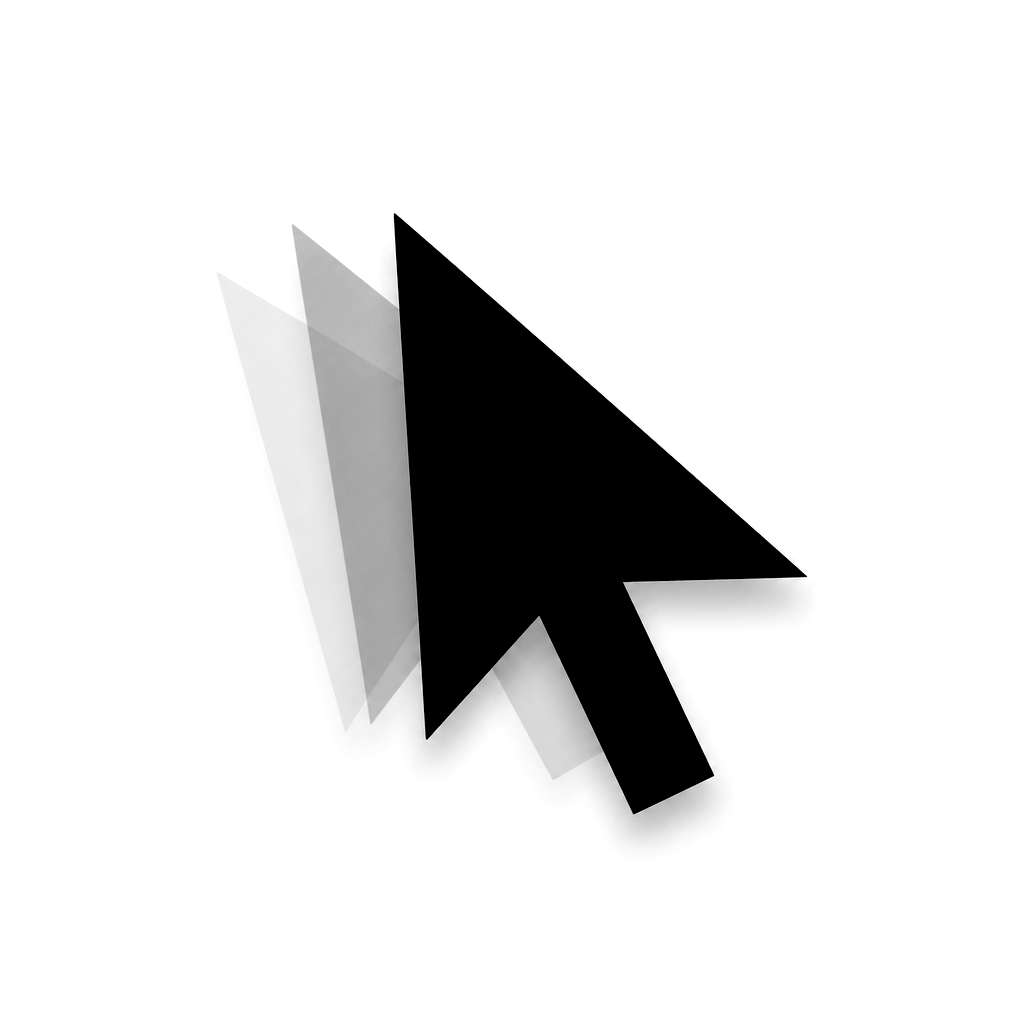
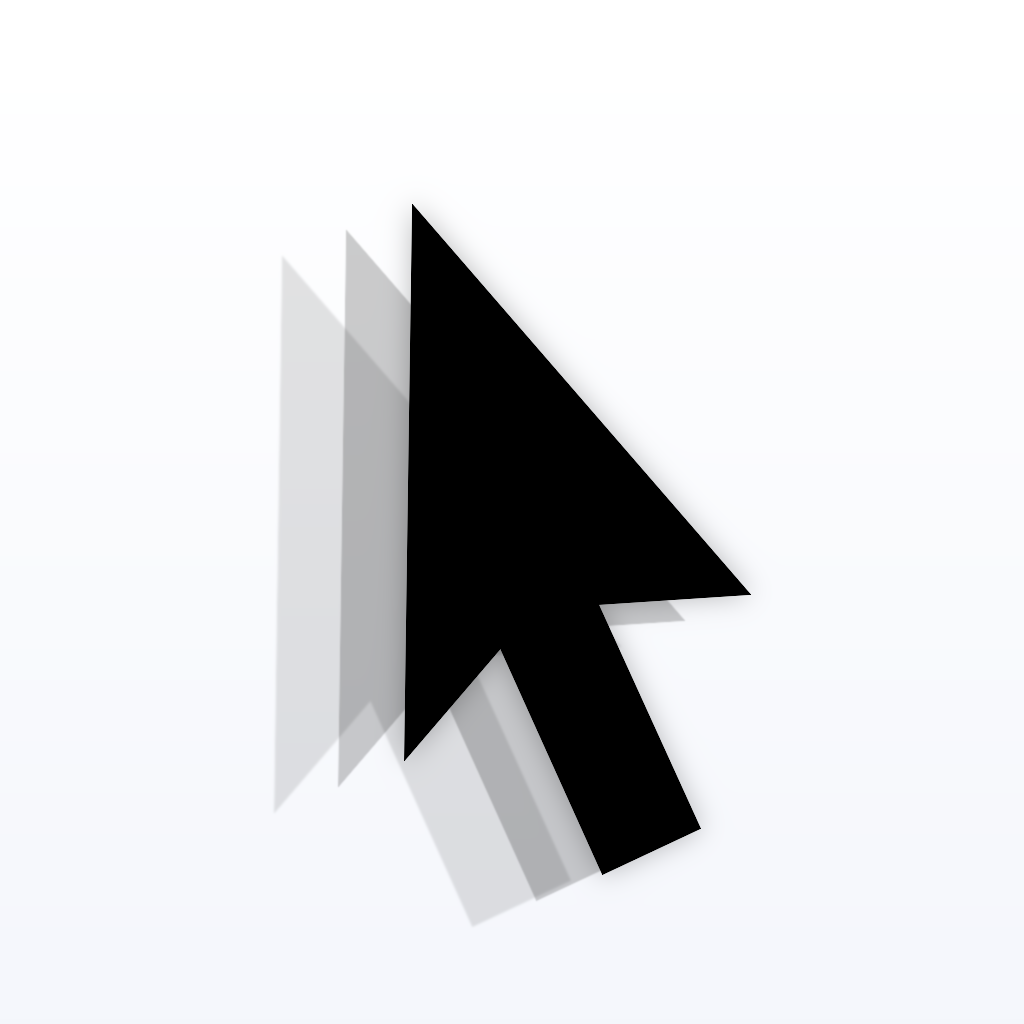
Fix menu slider and permission identity

diff --git a/Sources/AlwaysOnlineMac/AppDelegate.swift b/Sources/AlwaysOnlineMac/AppDelegate.swift
@@ -18,7 +18,7 @@ final class AppDelegate: NSObject, NSApplicationDelegate, NSMenuDelegate {
     private var menu = NSMenu()
     private var settings = ActivitySettings.defaults
     private var lastKnownAccessibilityTrust: Bool?
-    private weak var wiggleDistanceValueLabel: NSTextField?
+    private var wiggleDistanceValueLabel: NSTextField?
 
     func applicationDidFinishLaunching(_ notification: Notification) {
         settings = loadSettings()
@@ -70,6 +70,7 @@ final class AppDelegate: NSObject, NSApplicationDelegate, NSMenuDelegate {
         settings.wiggleDistance = distance
         sender.doubleValue = distance
         wiggleDistanceValueLabel?.stringValue = StatusItemPresentation.wiggleDistanceValueTitle(distance)
+        wiggleDistanceValueLabel?.needsDisplay = true
         UserDefaults.standard.set(distance, forKey: wiggleDistanceKey)
         controller.resetCooldown()
     }
@@ -182,12 +183,21 @@ final class AppDelegate: NSObject, NSApplicationDelegate, NSMenuDelegate {
     }
 
     private func addWiggleDistanceItem(to menu: NSMenu) {
-        let width: CGFloat = 240
-        let view = NSView(frame: NSRect(x: 0, y: 0, width: width, height: 58))
+        let width: CGFloat = 430
+        let textLeft: CGFloat = 48
+        let contentRight: CGFloat = 32
+        let labelHeight: CGFloat = 22
+        let valueWidth: CGFloat = 74
+        let view = NSView(frame: NSRect(x: 0, y: 0, width: width, height: 62))
 
         let titleLabel = NSTextField(labelWithString: StatusItemPresentation.wiggleDistanceMenuTitle)
         titleLabel.font = .menuFont(ofSize: NSFont.systemFontSize)
-        titleLabel.frame = NSRect(x: 16, y: 34, width: 140, height: 18)
+        titleLabel.frame = NSRect(
+            x: textLeft,
+            y: 36,
+            width: width - textLeft - contentRight - valueWidth - 8,
+            height: labelHeight
+        )
         view.addSubview(titleLabel)
 
         let valueLabel = NSTextField(
@@ -195,7 +205,12 @@ final class AppDelegate: NSObject, NSApplicationDelegate, NSMenuDelegate {
         )
         valueLabel.font = .menuFont(ofSize: NSFont.systemFontSize)
         valueLabel.alignment = .right
-        valueLabel.frame = NSRect(x: width - 78, y: 34, width: 62, height: 18)
+        valueLabel.frame = NSRect(
+            x: width - contentRight - valueWidth,
+            y: 36,
+            width: valueWidth,
+            height: labelHeight
+        )
         view.addSubview(valueLabel)
 
         let slider = NSSlider(
@@ -207,7 +222,13 @@ final class AppDelegate: NSObject, NSApplicationDelegate, NSMenuDelegate {
         )
         slider.isContinuous = true
         slider.controlSize = .small
-        slider.frame = NSRect(x: 14, y: 8, width: width - 28, height: 24)
+        slider.sendAction(on: [.leftMouseDragged, .leftMouseUp])
+        slider.frame = NSRect(
+            x: textLeft,
+            y: 8,
+            width: width - textLeft - contentRight,
+            height: 24
+        )
         view.addSubview(slider)
 
         let item = NSMenuItem()
@@ -290,13 +311,10 @@ final class AppDelegate: NSObject, NSApplicationDelegate, NSMenuDelegate {
     }
 
     private func currentAccessibilityPromptInstallToken() -> String {
-        let bundlePath = Bundle.main.bundlePath
-        let bundleVersion = Bundle.main.object(forInfoDictionaryKey: "CFBundleVersion") as? String ?? "unknown"
-        let executableModifiedAt = Bundle.main.executableURL
-            .flatMap { try? FileManager.default.attributesOfItem(atPath: $0.path)[.modificationDate] as? Date }
-            .map { Int($0.timeIntervalSince1970) } ?? 0
-
-        return "\(bundlePath)|\(bundleVersion)|\(executableModifiedAt)"
+        StatusItemPresentation.accessibilityPromptInstallToken(
+            bundleIdentifier: Bundle.main.bundleIdentifier,
+            bundlePath: Bundle.main.bundlePath
+        )
     }
 
     private func observeActivationNotifications() {

diff --git a/Tests/AlwaysOnlineCoreTests/StatusItemPresentationTests.swift b/Tests/AlwaysOnlineCoreTests/StatusItemPresentationTests.swift
@@ -80,6 +80,23 @@ final class StatusItemPresentationTests: XCTestCase {
         )
     }
 
+    func testAccessibilityPromptInstallTokenUsesStableAppIdentityAndPath() {
+        XCTAssertEqual(
+            StatusItemPresentation.accessibilityPromptInstallToken(
+                bundleIdentifier: "io.github.h1an1.AlwaysOnline",
+                bundlePath: "/Applications/AlwaysOnline.app"
+            ),
+            "io.github.h1an1.AlwaysOnline|/Applications/AlwaysOnline.app"
+        )
+        XCTAssertEqual(
+            StatusItemPresentation.accessibilityPromptInstallToken(
+                bundleIdentifier: nil,
+                bundlePath: "/Applications/AlwaysOnline.app"
+            ),
+            "unknown-bundle-id|/Applications/AlwaysOnline.app"
+        )
+    }
+
     func testStatusRefreshIntervalIsFastEnoughForPermissionChanges() {
         XCTAssertLessThanOrEqual(StatusItemPresentation.statusRefreshInterval, 1)
     }

diff --git a/Sources/AlwaysOnlineMac/AccessibilityPermission.swift b/Sources/AlwaysOnlineMac/AccessibilityPermission.swift
@@ -3,14 +3,19 @@ import Foundation
 
 enum AccessibilityPermission {
     static var isTrusted: Bool {
-        AXIsProcessTrusted()
+        checkTrust(prompt: false)
     }
 
-    static func requestPrompt() {
+    @discardableResult
+    static func requestPrompt() -> Bool {
+        checkTrust(prompt: true)
+    }
+
+    private static func checkTrust(prompt: Bool) -> Bool {
         let options = [
-            "AXTrustedCheckOptionPrompt": true
+            "AXTrustedCheckOptionPrompt": prompt
         ] as CFDictionary
 
-        _ = AXIsProcessTrustedWithOptions(options)
+        return AXIsProcessTrustedWithOptions(options)
     }
 }

diff --git a/Sources/AlwaysOnlineCore/StatusItemPresentation.swift b/Sources/AlwaysOnlineCore/StatusItemPresentation.swift
@@ -32,4 +32,11 @@ public enum StatusItemPresentation {
     ) -> Bool {
         !isAccessibilityTrusted && lastPromptedInstallToken != currentInstallToken
     }
+
+    public static func accessibilityPromptInstallToken(
+        bundleIdentifier: String?,
+        bundlePath: String
+    ) -> String {
+        "\(bundleIdentifier ?? "unknown-bundle-id")|\(bundlePath)"
+    }
 }

diff --git a/README.md b/README.md
@@ -29,6 +29,8 @@ For the current release, open the DMG, drag `AlwaysOnline.app` into `Application
 
 macOS requires Accessibility permission before any app can post mouse events. AlwaysOnline asks for this permission the first time it opens.
 
+Version `0.1.8` uses the stable bundle identifier `io.github.h1an1.AlwaysOnline`. If you are upgrading from an older local build and macOS shows two AlwaysOnline entries, remove the old entry and enable the new one once.
+
 To enable it manually:
 
 1. Open `System Settings`.
@@ -36,7 +38,7 @@ To enable it manually:
 3. Enable `AlwaysOnline`.
 4. Quit and reopen AlwaysOnline if macOS does not apply the permission immediately.
 
-If permission is missing, the menu shows `No accessibility permission`.
+If permission is missing, the menu shows `No Accessibility Permission`.
 
 ## How It Works
 